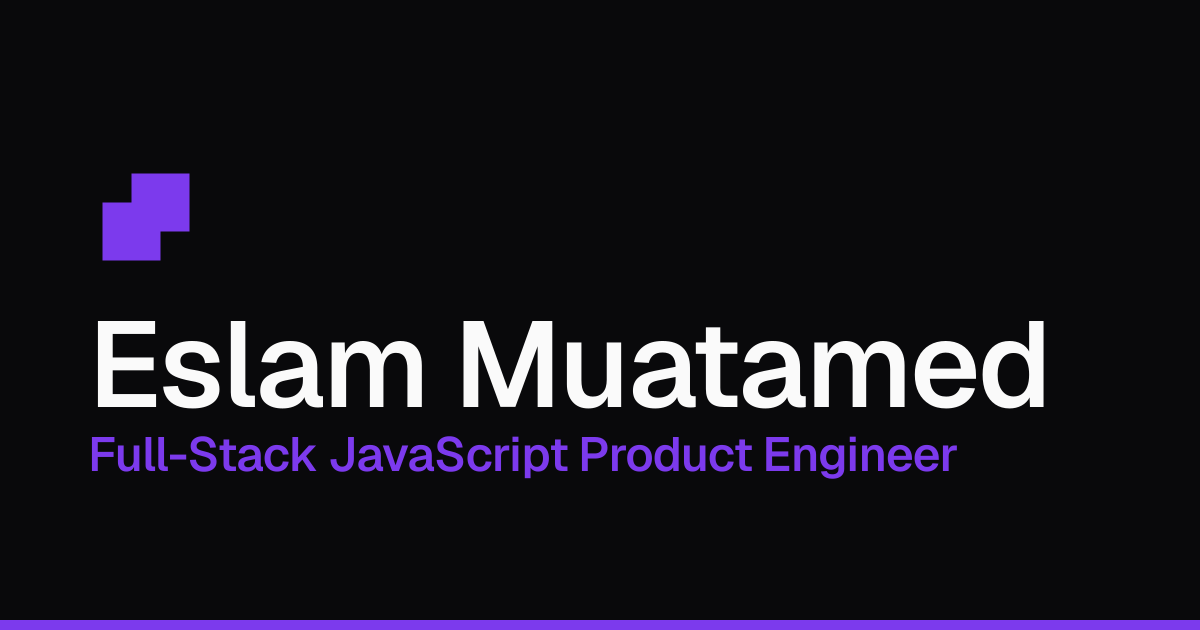
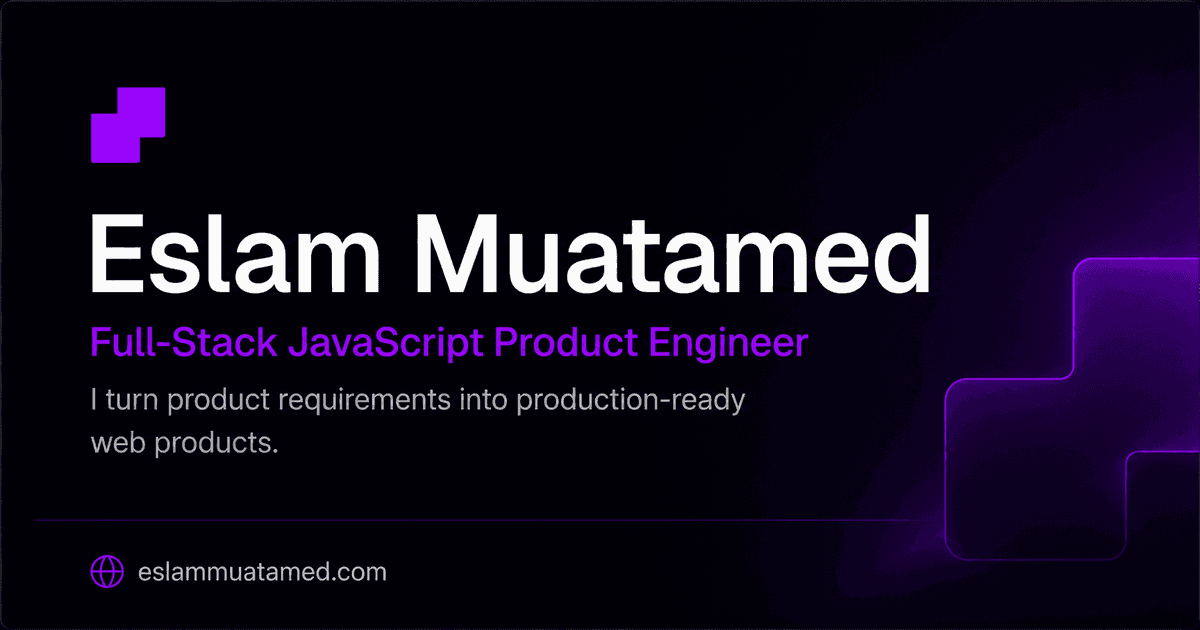
chore(brand): adopt the approved social-preview artwork (Docs c89155e) (#43)
Byte-identical copy of the Docs canonical `social-card.png`, regenerated there by
`brand:social` from the owner-approved artwork and verified at a fixed point.

sha256 83199de859b2b7b32a71aa5c3a7d192d00b99cc1207b79d273a02188d46b9164
1200x630 PNG, 30,528 B -> 52,738 B.

No code changes: `SOCIAL_IMAGE_PATH` is still `/social-card.png` and
`SOCIAL_IMAGE_WIDTH`/`HEIGHT` are still 1200/630, so `og:image`, its declared
dimensions and `twitter:image` all continue to resolve — the file behind the path
changed, the contract did not. The path is locale-independent, so EN and AR
resolve to the same asset by construction.

diff --git a/e2e/about.spec.ts b/e2e/about.spec.ts
@@ -1,3 +1,6 @@
+import { createHash } from 'node:crypto'
+import { readFileSync } from 'node:fs'
+import { fileURLToPath } from 'node:url'
 import AxeBuilder from '@axe-core/playwright'
 import { expect, test } from '@playwright/test'
 
@@ -116,6 +119,38 @@ test.describe('Locale-owned head metadata (D22-7)', () => {
     await expect(page.locator('meta[property="og:image:width"]')).toHaveAttribute('content', '1200')
     await expect(page.locator('meta[property="og:image:height"]')).toHaveAttribute('content', '630')
   })
+
+  // Closes the loop the tag assertions leave open: they prove the URL is well-formed and the
+  // declared dimensions, but a stale, missing or half-copied file would satisfy every one of them.
+  // This FOLLOWS the advertised URL and compares the bytes a crawler would actually receive against
+  // the committed asset, so "the generated image is the one og:image uses" is verified rather than
+  // assumed. Both locales, because the tag is emitted per-render even though the path is shared.
+  for (const [name, path] of [['EN', EN], ['AR', AR]] as const) {
+    test(`serves the committed social card at the ${name} og:image URL`, async ({ page, request }) => {
+      await open(page, path)
+
+      const url = await page.locator('meta[property="og:image"]').getAttribute('content')
+      expect(url).toBeTruthy()
+
+      // The advertised host is the governed site URL, which is not this test server — fetch the
+      // asset by PATH so the check exercises what this build actually serves.
+      const response = await request.get(new URL(url!).pathname)
+      expect(response.status()).toBe(200)
+      expect(response.headers()['content-type']).toContain('image/png')
+
+      const served = await response.body()
+      const committed = readFileSync(
+        fileURLToPath(new URL('../public/social-card.png', import.meta.url)),
+      )
+      const sha = (buf: Buffer) => createHash('sha256').update(buf).digest('hex')
+      expect(sha(served)).toBe(sha(committed))
+
+      // PNG IHDR: width and height are big-endian uint32 at byte offsets 16 and 20. Read from the
+      // SERVED bytes, so the declared 1200x630 above is checked against the real image.
+      expect(served.readUInt32BE(16)).toBe(1200)
+      expect(served.readUInt32BE(20)).toBe(630)
+    })
+  }
 })
 
 test.describe('Structured data (D22-8)', () => {
